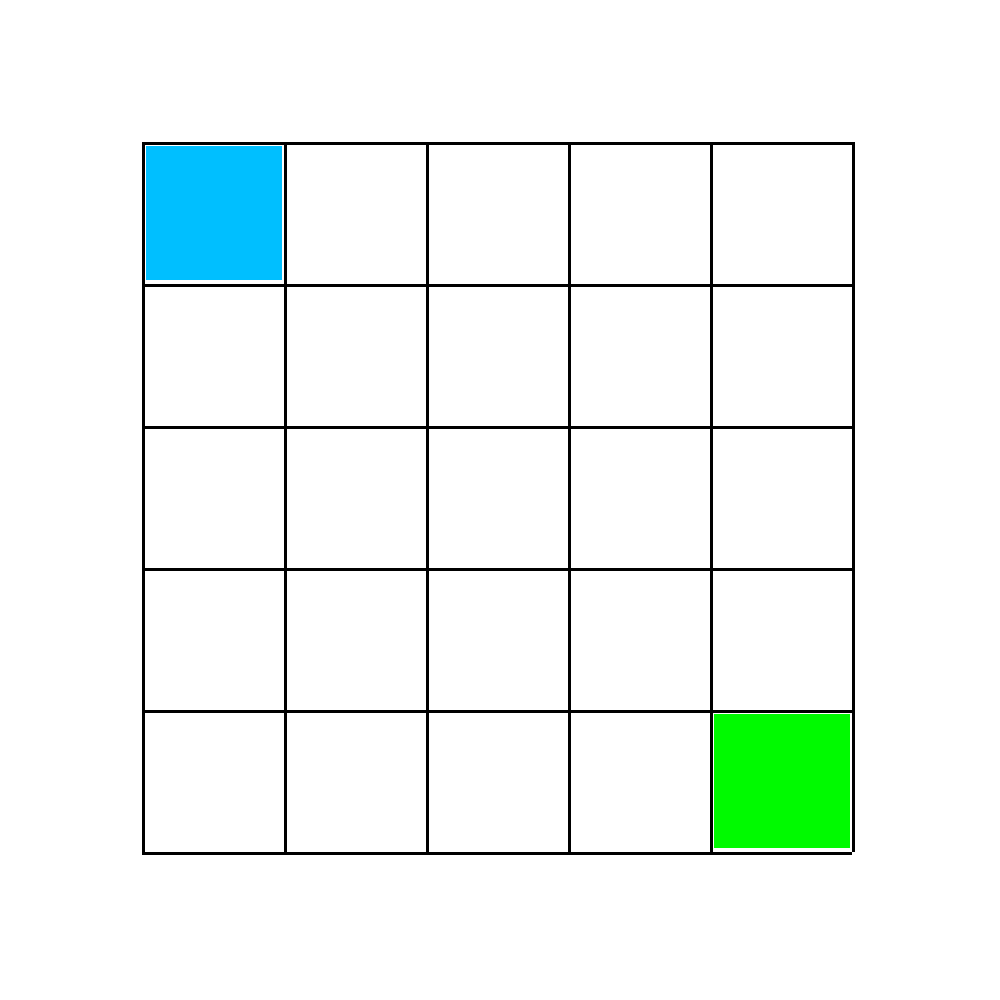
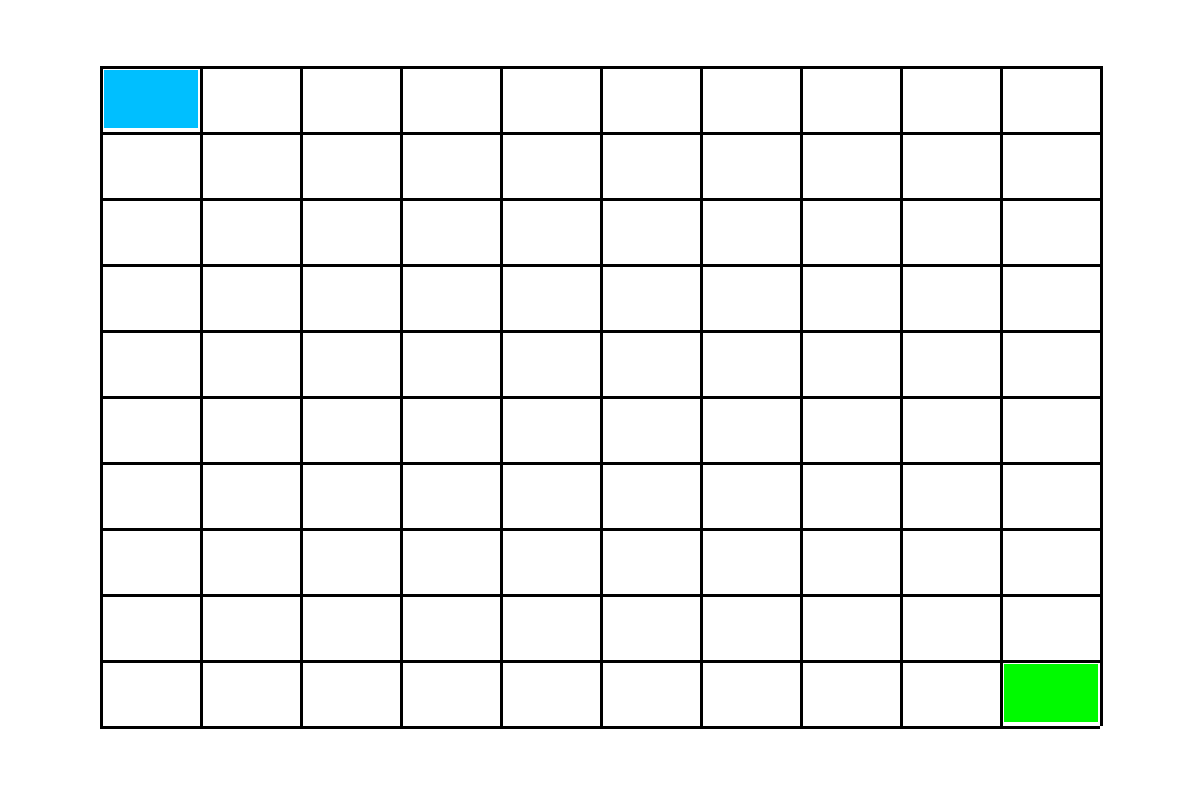
commit final

Changed region(s): [[0.062, 0.0625, 0.93, 0.9375], [0.062, 0.2188, 0.093, 0.2812]]

diff --git a/README.md b/README.md
@@ -11,9 +11,13 @@
 	O projeto MAGOS funciona em duas etapas. Primeiro lê a partir da entrada o número necessário de linhas e colunas do labirinto e constrói um labirinto perfeito com base nessas informações. Na segunda etapa, o programa encontra uma solução (um caminho) conectando duas células, a entrada do labirinto e a saída.
 	A saída do programa  é um conjunto de imagens representando, passo a passo, ambas etapas de contrução e resolução de processos. 
 
-#Algoritmo usado na Construção
+# Algoritmo usado na Construção
 
-#Algoritmo usado na Solução
+	Para construção do labirinto faz-se o uso inicial de dois conjuntos de índices, seus nomes respectivamente são: Selecionados e Não Selecionados. Supondo que o labirinto é formado por células e cada célula possui um índice numérico, onde o primeiro índice da matriz labirinto posição [0][0] tem número 0, também identificado como entrada do labirinto , e linearmente em ordem crescente o último índice [coluna_max-1][linha_max-1] será (linha * coluna) – 1. Dentro deste padrão, será colocado no conjunto Não Selecionados, todos os índices, com exceção ao índice 0 que é colocado no conjunto Selecionados. A partir deste momento entramos em um loop onde é sorteado um índice do conjunto Selecionados, verificado com quais índices esse índice sorteado faz Parede, adicionando eles a um novo conjunto: o conjunto dos Possíveis para a rodada. O programa verifica quais destes possíveis fazem parte do conjunto dos Selecionados, e os excluem do conjunto dos Possíveis. A partir dai é selecionando um índice do conjunto dos Possíveis, onde a Parede que faz conexão entre o índice sorteado do conjunto dos Possíveis e o índice sorteado do conjunto dos Sorteados, será derrubada pelo sistema. Com isso o programa adiciona esse índice sorteado do conjunto dos Possíveis no conjunto dos Sorteados e o exclui do conjunto dos Não Sorteados. Este ciclo se repete a cada interação solicitada. Quando não houver mais números no conjunto dos Não Sorteados, o programa termina o loop.
+
+# Algoritmo usado na Solução
+
+	Para resolver o labirinto foi utilizada uma pilha e uma tabela de dispersão. Semelhante ao modo de contrição do labirinto, o de solução também utiliza-se de índices para identificar as partes da matriz labirinto. A tabela de dispersão guardara os índices e a cada índice associado terá os possíveis índices que o guia de solução pode se movimentar. A pilha guardará a trajetória que está sendo percorrida, sempre excluindo dela o caminho descartado que não é solução. O programa de solução se baseia em um loop, onde é verificado o índice onde se encontra o guia, que nada mais é que a última posição da pilha. Com acesso a tabela de índices se tem a informação de para quais índices o guia pode se movimentar e dentro dos índices possíveis de movimento é verificado quais não são parte do caminho ou já foram descartados como caminho, e dentre dos restantes e sorteado um índice, que corresponde para onde o guia irá se movimentar. Ao se mover é adicionado a pilha a posição sorteada e a mesma é excluída da lista do índice que o guia estava. Caso não haja mais nenhum movimento na hora de sortear um índice, é identificado que o guia seguiu por um caminho sem saída, e é eliminado da pilha sua ultima posição, com isso o identificador. Caso o índice adicionado a pilha é o índice de saída do labirinto, o programa é terminado.  
 
 # Instalação e execução
 
@@ -23,4 +27,6 @@ Para instalar e executar o programa siga as instruções:
 2. `git clone https://github.com/allandemiranda/MAGOS_LP1.git`
 3. `cd MAGOS_LP1`
 4. `g++ -Wall -std=c++11 src/*.cpp -I include -o ./bin/magos.o`
-5. Exemplo de entrada`./bin/magos.o 5 5 1000 10000`
+5. Exemplo de entrada`./bin/magos.o 10 10 1200 800`
+
+As imagens geradas estão disponíveis na pasta "builder" e "solver".
